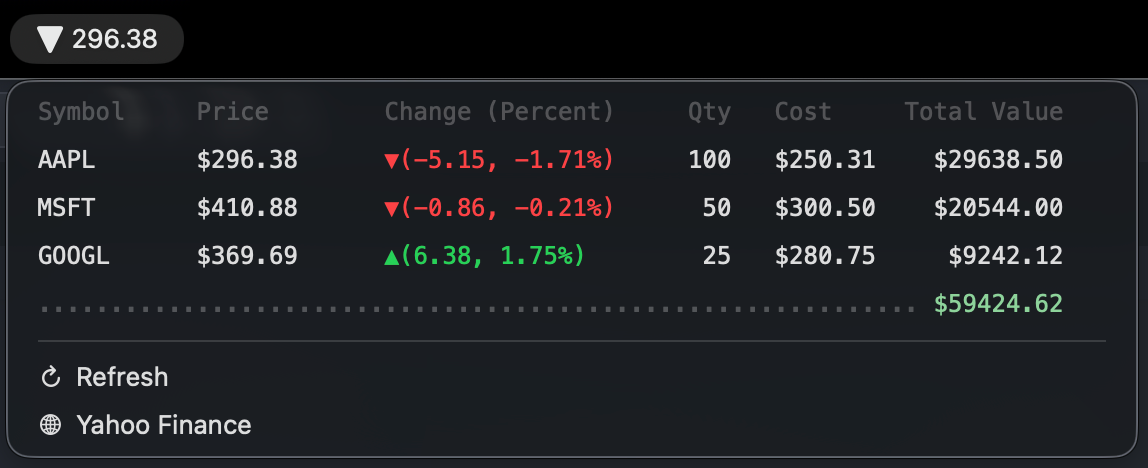
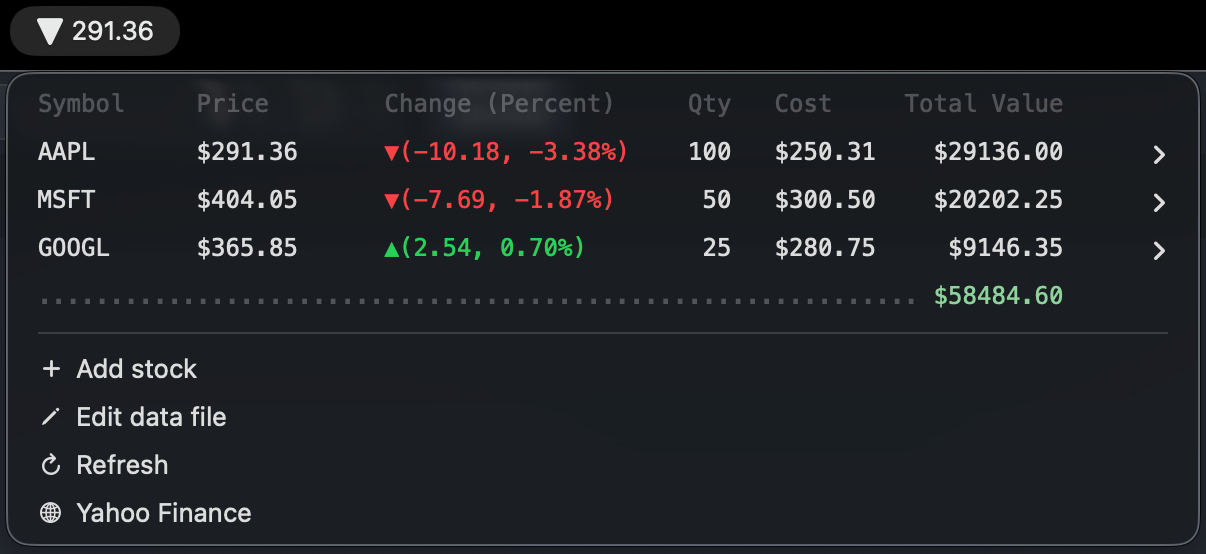
New version with data file

diff --git a/stock_portfolio.5m.py b/stock_portfolio.5m.py
@@ -2,7 +2,7 @@
 # -*- coding: utf-8 -*-
 
 # <xbar.title>Stock Portfolio</xbar.title>
-# <xbar.version>v1.0</xbar.version>
+# <xbar.version>v1.1</xbar.version>
 # <xbar.author>Carlos E. Torres</xbar.author>
 # <xbar.author.github>cetorres</xbar.author.github>
 # <xbar.desc>Show your stock portfolio and prices in your menu bar using Yahoo Finance real-time data.</xbar.desc>
@@ -10,7 +10,17 @@
 # <xbar.image>https://github.com/cetorres/swiftbar-stock-portfolio/blob/main/stock_portfolio_preview.png</xbar.image>
 # <xbar.abouturl>https://github.com/cetorres/swiftbar-stock-portfolio</xbar.abouturl>
 
+import subprocess
+import sys
+from pathlib import Path
 import yfinance as yf
+
+
+# Define the path to the data file that will store the stock symbols, quantities, and initial costs.
+DATA_FILE = Path.home() / ".stock_portfolio.txt"
+
+# The script path for the current file
+SCRIPT_PATH = str(Path(__file__).resolve())
 
 # ANSI color codes for green and red, and reset code to clear formatting
 GREEN = '\033[32m'
@@ -18,19 +28,56 @@ RED = '\033[31m'
 RESET = '\033[0m'
 FONT = 'Menlo'
 
-# Define the stock symbols and their corresponding quantities and initial costs in the portfolio
-# Format: {'SYMBOL': [quantity, initial_cost]}
-# Example: 'AAPL': [100, 250.31] means 100 shares of AAPL bought at $250.31 each.
-# The first symbol will be displayed in the menu bar, the rest will be shown in the dropdown.
-symbols_quantities = {
-    'AAPL': [100, 250.31],
-    'MSFT': [50, 300.50],
-    'GOOGL': [25, 280.75]
-}
+
+def load_portfolio():
+    """Load the stock portfolio from the data file. If the file does not exist, return an empty dictionary."""
+    if not DATA_FILE.exists():
+        return {}
+    portfolio = {}
+    with open(DATA_FILE, 'r') as f:
+        for line in f:
+            symbol, quantity, initial_cost = line.strip().split(',')
+            portfolio[symbol] = [int(quantity), float(initial_cost)]
+    return portfolio
+
+
+def save_portfolio(portfolio):
+    """Save the stock portfolio to the data file."""
+    with open(DATA_FILE, 'w') as f:
+        for symbol, (quantity, initial_cost) in portfolio.items():
+            f.write(f"{symbol},{quantity},{initial_cost}\n")
+
+
+def render_add_stock():
+    print(f"Add stock | sfimage=plus shell=\"{SCRIPT_PATH}\" param1=add refresh=true terminal=false")
+
+
+def render_empty_portfolio():
+    print("⚠ Add stocks")
+    print("---")
+    print("You need to add stocks to your portfolio.")
+    print("---")
+    render_add_stock()
+
+
+def render_delete_stock():
+    print(f"Delete stock | sfimage=xmark.bin")
+    for symbol in portfolio.keys():
+        print(f"-- {symbol} | shell=\"{SCRIPT_PATH}\" param1=delete param2={symbol} refresh=true terminal=false")
+
+
+def render_edit_file():
+    print(f"Edit data file | sfimage=pencil shell=open param1=\"{DATA_FILE}\" refresh=true terminal=false")
+
 
 def render():
+    if not portfolio or len(portfolio) == 0:
+        render_empty_portfolio()
+        print("Refresh | sfimage=arrow.clockwise refresh=true")
+        return
+    
     # Get all symbols tickers at once to minimize API calls
-    tickers = yf.Tickers(' '.join(symbols_quantities.keys()))
+    tickers = yf.Tickers(' '.join(portfolio.keys()))
 
     # Get first symbol info to display in the menu bar
     first = next(iter(tickers.tickers.values()))
@@ -43,7 +90,7 @@ def render():
     total = 0
     print(f"Symbol     Price        Change (Percent)     Qty   Cost     Total Value | font='{FONT}'")
     for ticker in tickers.tickers.values():
-        symbol_info = symbols_quantities.get(ticker.info.get('symbol', 'N/A'))
+        symbol_info = portfolio.get(ticker.info.get('symbol', 'N/A'))
         quantity = symbol_info[0]
         initial_cost = symbol_info[1]
         info = ticker.info
@@ -63,16 +110,84 @@ def render():
         sub_total = quantity * current_price
         total += sub_total
         print(stock_info.format(symbol, f'${current_price:.2f}', colored_change, quantity, f'${initial_cost:.2f}', f'${sub_total:.2f}') + f" | font='{FONT}' href=https://finance.yahoo.com/quote/{symbol}/ webview=true ansi=true")
+        print(f"-- View on Yahoo Finance | sfimage=globe href=https://finance.yahoo.com/quote/{symbol}/ webview=true")
+        print(f"-- Edit {symbol} | sfimage=pencil shell=\"{SCRIPT_PATH}\" param1=edit param2={symbol} refresh=true terminal=false")
+        print(f"-- Delete {symbol} | sfimage=xmark shell=\"{SCRIPT_PATH}\" param1=delete param2={symbol} refresh=true terminal=false")
 
     # Display total value of the portfolio
     total_str = f'${total:.2f}'
     print('.' * 61 + GREEN + total_str.rjust(10) + RESET + f" | font='{FONT}' ansi=true")
     print("---")
 
+    render_add_stock()
+    render_edit_file()
     print("Refresh | sfimage=arrow.clockwise refresh=true")
     print(f"Yahoo Finance | sfimage=globe href=https://finance.yahoo.com webview=true")
     print("---")
 
 
+def show_add_stock_dialog(symbolToEdit=None):
+    if symbolToEdit:
+        if symbolToEdit in portfolio:
+            symbol = symbolToEdit
+        else:
+            symbol = ""
+    else:
+        symbol = ""
+        symbol = subprocess.run(['osascript', '-e', f'Tell application "System Events" to display dialog "Enter the stock symbol" default answer "{symbol}" with title "Add Stock"'], capture_output=True, text=True).stdout.strip().split(':')[-1].strip()
+    if not symbol or symbol == "":
+        return
+    
+    if symbolToEdit:
+        quantity = portfolio[symbol][0]
+        initial_cost = portfolio[symbol][1]
+    else:
+        quantity = ""
+        initial_cost = ""
+    
+    quantity = subprocess.run(['osascript', '-e', f'Tell application "System Events" to display dialog "Enter the quantity" default answer "{quantity}" with title "Add Stock"'], capture_output=True, text=True).stdout.strip().split(':')[-1].strip()
+    if not quantity or quantity == "":
+        return
+   
+    initial_cost = subprocess.run(['osascript', '-e', f'Tell application "System Events" to display dialog "Enter the initial cost per share" default answer "{initial_cost}" with title "Add Stock"'], capture_output=True, text=True).stdout.strip().split(':')[-1].strip()
+    if not initial_cost or initial_cost == "":
+        return
+    
+    if not symbol or not quantity or not quantity.isdigit() or not initial_cost or not initial_cost.replace('.', '').isdigit():
+        # Show an error message if any input is missing
+        subprocess.run(['osascript', '-e', 'Tell application "System Events" to display dialog "Please enter all required fields with valid input." buttons {"OK"} default button 1 with title "Add Stock"'], capture_output=True, text=True)
+        return
+    
+    symbol = symbol.upper()
+    quantity = int(quantity)
+    initial_cost = float(initial_cost)
+    portfolio[symbol] = [quantity, initial_cost]
+    save_portfolio(portfolio)
+    if symbolToEdit:
+        message = f"Stock {symbol} updated successfully."
+    else:        
+        message = f"Stock {symbol} added successfully."
+    subprocess.run(['osascript', '-e', f'Tell application "System Events" to display dialog "{message}" buttons {"OK"} default button 1 with title "Add Stock"'], capture_output=True, text=True)
+
+
+def delete_stock(symbol):
+    if symbol in portfolio:
+        del portfolio[symbol]
+        save_portfolio(portfolio)
+
+
+# Load the portfolio from the data file. This will be used to display the portfolio and to add new stocks.
+portfolio = load_portfolio()
+
+
 if __name__ == "__main__":
-    render()
+    if len(sys.argv) > 1 and sys.argv[1] == "add":
+        show_add_stock_dialog()
+    elif len(sys.argv) > 1 and sys.argv[1] == "delete":
+        symbol = sys.argv[2]
+        delete_stock(symbol)
+    elif len(sys.argv) > 1 and sys.argv[1] == "edit":
+        symbol = sys.argv[2]
+        show_add_stock_dialog(symbol)
+    else:
+        render()

diff --git a/README.md b/README.md
@@ -14,7 +14,10 @@ A [SwiftBar](https://github.com/swiftbar/SwiftBar)/[xbar](https://github.com/mat
 - **Portfolio dropdown** — a formatted table with symbol, current price, change (value + percent), quantity held, cost basis, and current total value for every position
 - **Color-coded changes** — green (▲) for gains, red (▼) for losses using ANSI colors
 - **Portfolio total** — running total of your entire portfolio's current market value
-- **Yahoo Finance links** — click any row to open that stock's Yahoo Finance page in a webview
+- **Yahoo Finance links** — click any row to open that stock's Yahoo Finance page in a built-in webview
+- **Add / Edit / Delete from the menu** — manage your portfolio directly from the dropdown using native macOS dialogs; no code editing required
+- **Edit data file** — open `~/.stock_portfolio.txt` directly for bulk edits
+- **Empty portfolio guidance** — shows a warning and instructions when no stocks have been added yet
 - **Auto-refresh** — data refreshes every 5 minutes automatically
 - **Manual refresh** — a Refresh menu item lets you force an immediate update
 
@@ -25,12 +28,14 @@ A [SwiftBar](https://github.com/swiftbar/SwiftBar)/[xbar](https://github.com/mat
 ```
 ▼ $296.38
 
-Symbol     Price        Change (Percent)          Qty  Cost      Total Value
-AAPL       $296.38      ▼(-5.15, -1.71%)          100  $250.31     $29638.50
-MSFT       $410.88      ▼(-0.86, -0.21%)           50  $300.50     $20544.00
-GOOGL      $369.69      ▲(+6.38, 1.75%)            25  $280.75      $9242.12
-...................................................................$59424.62
+Symbol     Price        Change (Percent)     Qty   Cost     Total Value
+AAPL       $296.38      ▼(-5.15, -1.71%)     100  $250.31     $29638.50  >
+MSFT       $410.88      ▼(-0.86, -0.21%)      50  $300.50     $20544.00  >
+GOOGL      $369.69      ▲(6.38, 1.75%)        25  $280.75      $9242.12  >
+..............................................................$59424.62  >
 
++ Add stock
+✎ Edit data file
 ↺ Refresh
 🌐 Yahoo Finance
 ```
@@ -83,29 +88,40 @@ SwiftBar will detect the new plugin automatically. If it doesn't appear right aw
 
 ## Configuration
 
-Open `stock_portfolio.5m.py` and edit the `symbols_quantities` dictionary near the top of the file:
+### Managing your portfolio
 
-```python
-symbols_quantities = {
-    'AAPL': [100, 250.31],
-    'MSFT': [50, 300.50],
-    'GOOGL': [25, 280.75]
-}
+Portfolio data is stored in `~/.stock_portfolio.txt`. You manage it directly from the SwiftBar dropdown — no code editing required.
+
+| Action | How |
+|---|---|
+| **Add a stock** | Click **Add stock** in the dropdown. Three macOS dialogs will prompt you for the symbol, quantity, and cost per share. |
+| **Edit a stock** | Expand any stock row and click **Edit \<SYMBOL\>**. The same dialog flow pre-fills current values. |
+| **Delete a stock** | Expand any stock row and click **Delete \<SYMBOL\>**, or use the **Delete stock** submenu to pick from all positions. |
+| **Bulk edit** | Click **Edit data file** to open `~/.stock_portfolio.txt` in your default text editor. |
+
+### Data file format
+
+`~/.stock_portfolio.txt` is a plain CSV file — one position per line:
+
+```text
+SYMBOL,quantity,cost_per_share
 ```
 
-Each entry follows this format:
+Example:
 
-```python
-'TICKER': [shares_owned, cost_per_share]
+```text
+AAPL,100,250.31
+MSFT,50,300.50
+GOOGL,25,280.75
 ```
 
 | Field | Description |
 |---|---|
-| `TICKER` | Stock symbol as listed on Yahoo Finance (e.g. `AAPL`, `TSLA`, `BTC-USD`) |
-| `shares_owned` | Number of shares (or units) you hold |
-| `cost_per_share` | Your average cost basis per share in USD |
+| `SYMBOL` | Stock symbol as listed on Yahoo Finance (e.g. `AAPL`, `TSLA`, `BTC-USD`) |
+| `quantity` | Number of shares (or units) you hold (integer) |
+| `cost_per_share` | Your average cost basis per share in USD (decimal) |
 
-> **Note:** The **first** symbol in the dictionary is the one displayed in the menu bar. Reorder the entries to change which ticker is shown at a glance.
+> **Note:** The **first** symbol in the file is the one displayed in the menu bar. Reorder the lines to change which ticker is shown at a glance.
 
 ### Changing the refresh interval
 
@@ -125,10 +141,12 @@ See the [SwiftBar documentation](https://github.com/swiftbar/SwiftBar#plugin-nam
 ## How It Works
 
 1. On each refresh cycle SwiftBar executes the Python script.
-2. The script calls `yfinance.Tickers()` once with all symbols to minimize API requests.
-3. The first line printed becomes the menu bar title (price + directional arrow SF Symbol).
-4. Lines after `---` populate the dropdown, formatted as a fixed-width table with ANSI color support.
-5. Each stock row carries a `href` to its Yahoo Finance page and opens in SwiftBar's built-in webview.
+2. The script reads `~/.stock_portfolio.txt` to load the portfolio. If the file does not exist, an empty-portfolio screen is shown with an **Add stock** prompt.
+3. `yfinance.Tickers()` is called once with all symbols to minimize API requests.
+4. The first line printed (price + directional arrow SF Symbol for the first stock) becomes the menu bar title.
+5. Lines after `---` populate the dropdown, formatted as a fixed-width table with ANSI color support.
+6. Each stock row carries a `href` to its Yahoo Finance page and opens in SwiftBar's built-in webview. Expanding a row reveals **View on Yahoo Finance**, **Edit**, and **Delete** actions.
+7. Add, edit, and delete operations use `osascript` to present native macOS dialogs, then write the updated data back to `~/.stock_portfolio.txt` and trigger a plugin refresh.
 
 ---
 
@@ -136,7 +154,7 @@ See the [SwiftBar documentation](https://github.com/swiftbar/SwiftBar#plugin-nam
 
 **Plugin does not appear in the menu bar**
 - Confirm the file is executable: `chmod +x stock_portfolio.5m.py`
-- Check that the shebang line (`#!/usr/bin/python3`) points to a valid Python 3 installation: `which python3`
+- Check that the shebang line (`#!/usr/bin/env python3`) resolves to a valid Python 3 installation: `which python3`
 
 **`ModuleNotFoundError: No module named 'yfinance'`**
 - The shebang must use the same Python that has `yfinance` installed. Find the correct path with `which python3` and update the first line of the script accordingly, or install into that interpreter: `pip3 install yfinance`